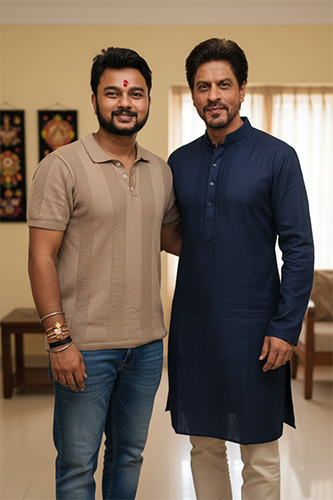
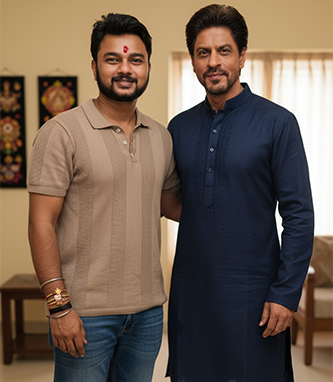
still modifying bio section

diff --git a/src/app/page.tsx b/src/app/page.tsx
@@ -1,7 +1,7 @@
 import { Metadata } from "next";
 import Achievements from "./components/home/achievements";
 import Brand from "./components/home/brand";
-import CreativeMind from "./components/home/creative-mind";
+import AboutMe from "./components/home/about-me";
 import CustomerStories from "./components/home/customer-stories";
 import Faq from "./components/home/faq";
 import HeroSection from "./components/home/hero";
@@ -28,7 +28,7 @@ export default function Home() {
       {/* ---------------------Brand logo section Ends-----------------  */}
 
         {/* ---------------------Creative mind section Starts-----------------  */}
-      <CreativeMind />
+      <AboutMe />
       {/* ---------------------Creative mind section Ends-----------------  */}
 
       {/* ---------------------Innovation section Starts-----------------  */}

diff --git a/src/app/components/home/about-me/index.tsx b/src/app/components/home/about-me/index.tsx
@@ -26,7 +26,7 @@ const ref = useRef<HTMLDivElement>(null)
                    <img
                     src="/images/home/creative/abhi-with-srk.png"
                     alt="Bio Image"
-                    className="w-md h-sm object-cover"
+                    className="w-md object-cover rounded-2xl"
                     />
                 </div>
               </div>
